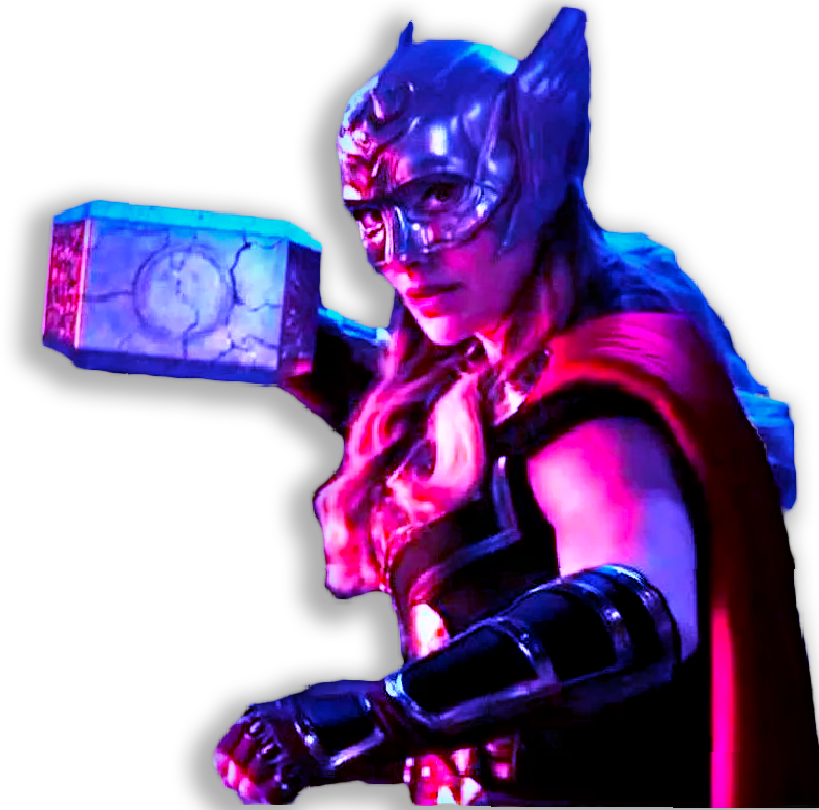
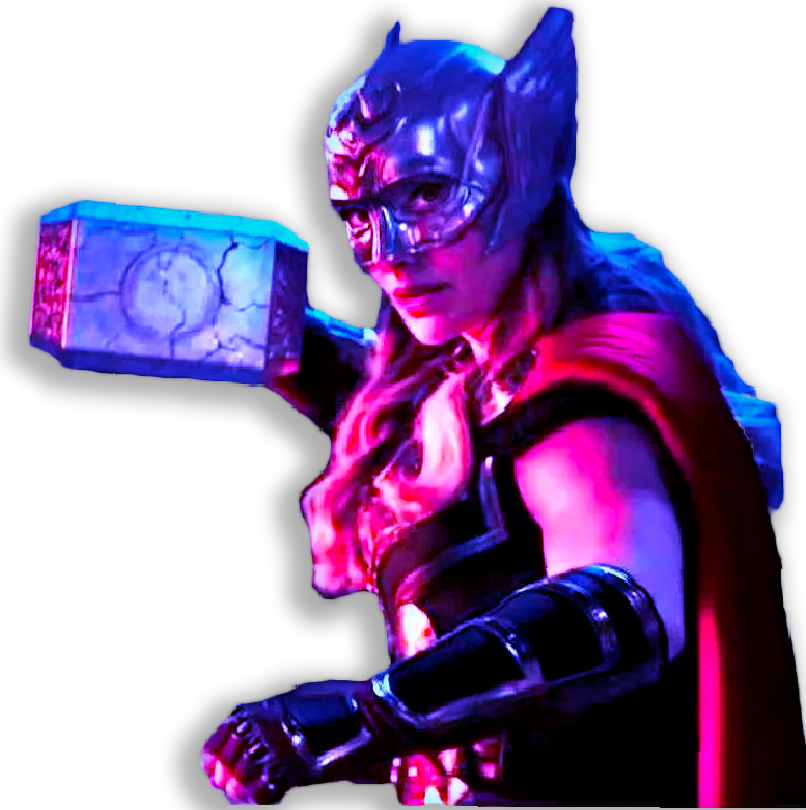
adicionando imagem jane foster

Changed region(s): [[0.0, 0.0, 0.9305, 1.0], [0.7134, 0.5247, 0.7754, 0.6173], [0.9305, 0.5556, 0.9615, 0.5864]]

diff --git a/index.html b/index.html
@@ -21,7 +21,9 @@
                 <div>Machado</div>
                 <div>Titulo</div>
             </div>
-            <div>Jane</div>
+            <div>
+                <img class="img-jane" src="assets/img/secao-principal/jane.png" alt="Jane Foster">
+            </div>
         </div>
     </section>
     <script src="https://cdn.jsdelivr.net/npm/bootstrap@5.2.0-beta1/dist/js/bootstrap.bundle.min.js" integrity="sha384-pprn3073KE6tl6bjs2QrFaJGz5/SUsLqktiwsUTF55Jfv3qYSDhgCecCxMW52nD2" crossorigin="anonymous"></script>

diff --git a/assets/css/styles.css b/assets/css/styles.css
@@ -13,3 +13,10 @@
     max-width: 530px;
     min-width: 470px;
 }
+
+.img-jane{
+    width: 100%;
+    min-width: 400px;
+    max-width: 580px;
+    height: 600px;
+}
